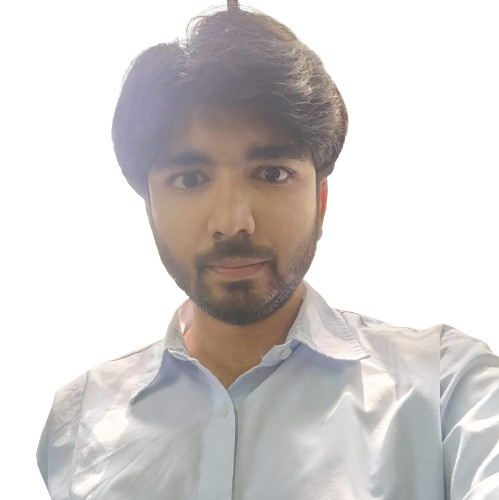
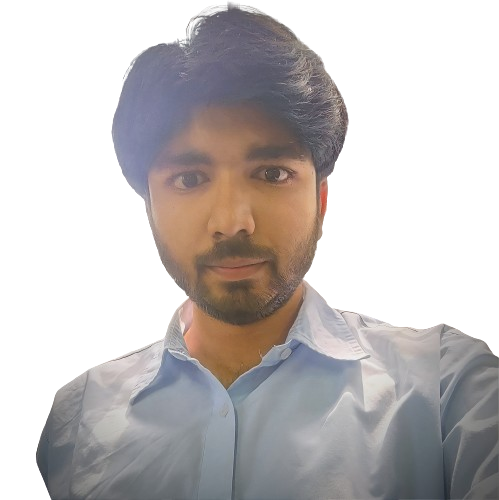
sayon da push, sayon da khus

diff --git a/asset/js/team.js b/asset/js/team.js
@@ -6,7 +6,7 @@ var coreTeam = [
         "year": "3rd",
         "contact": 8777491866,
         "linkedin": "https://www.linkedin.com/in/sayon-das-aa21b3127",
-        "background": "/asset/resource/image/member/core/member-bg/Sayon-Das.jpg",
+        "background": "/asset/resource/image/member/core/member-bg/Sayon-Das.png",
         "picture": "/asset/resource/image/member/core/member-image/Sayon-Das-removebg-preview.png",
         "team": "Event Management Team",
         "email": "dassayon16@gmail.com"
